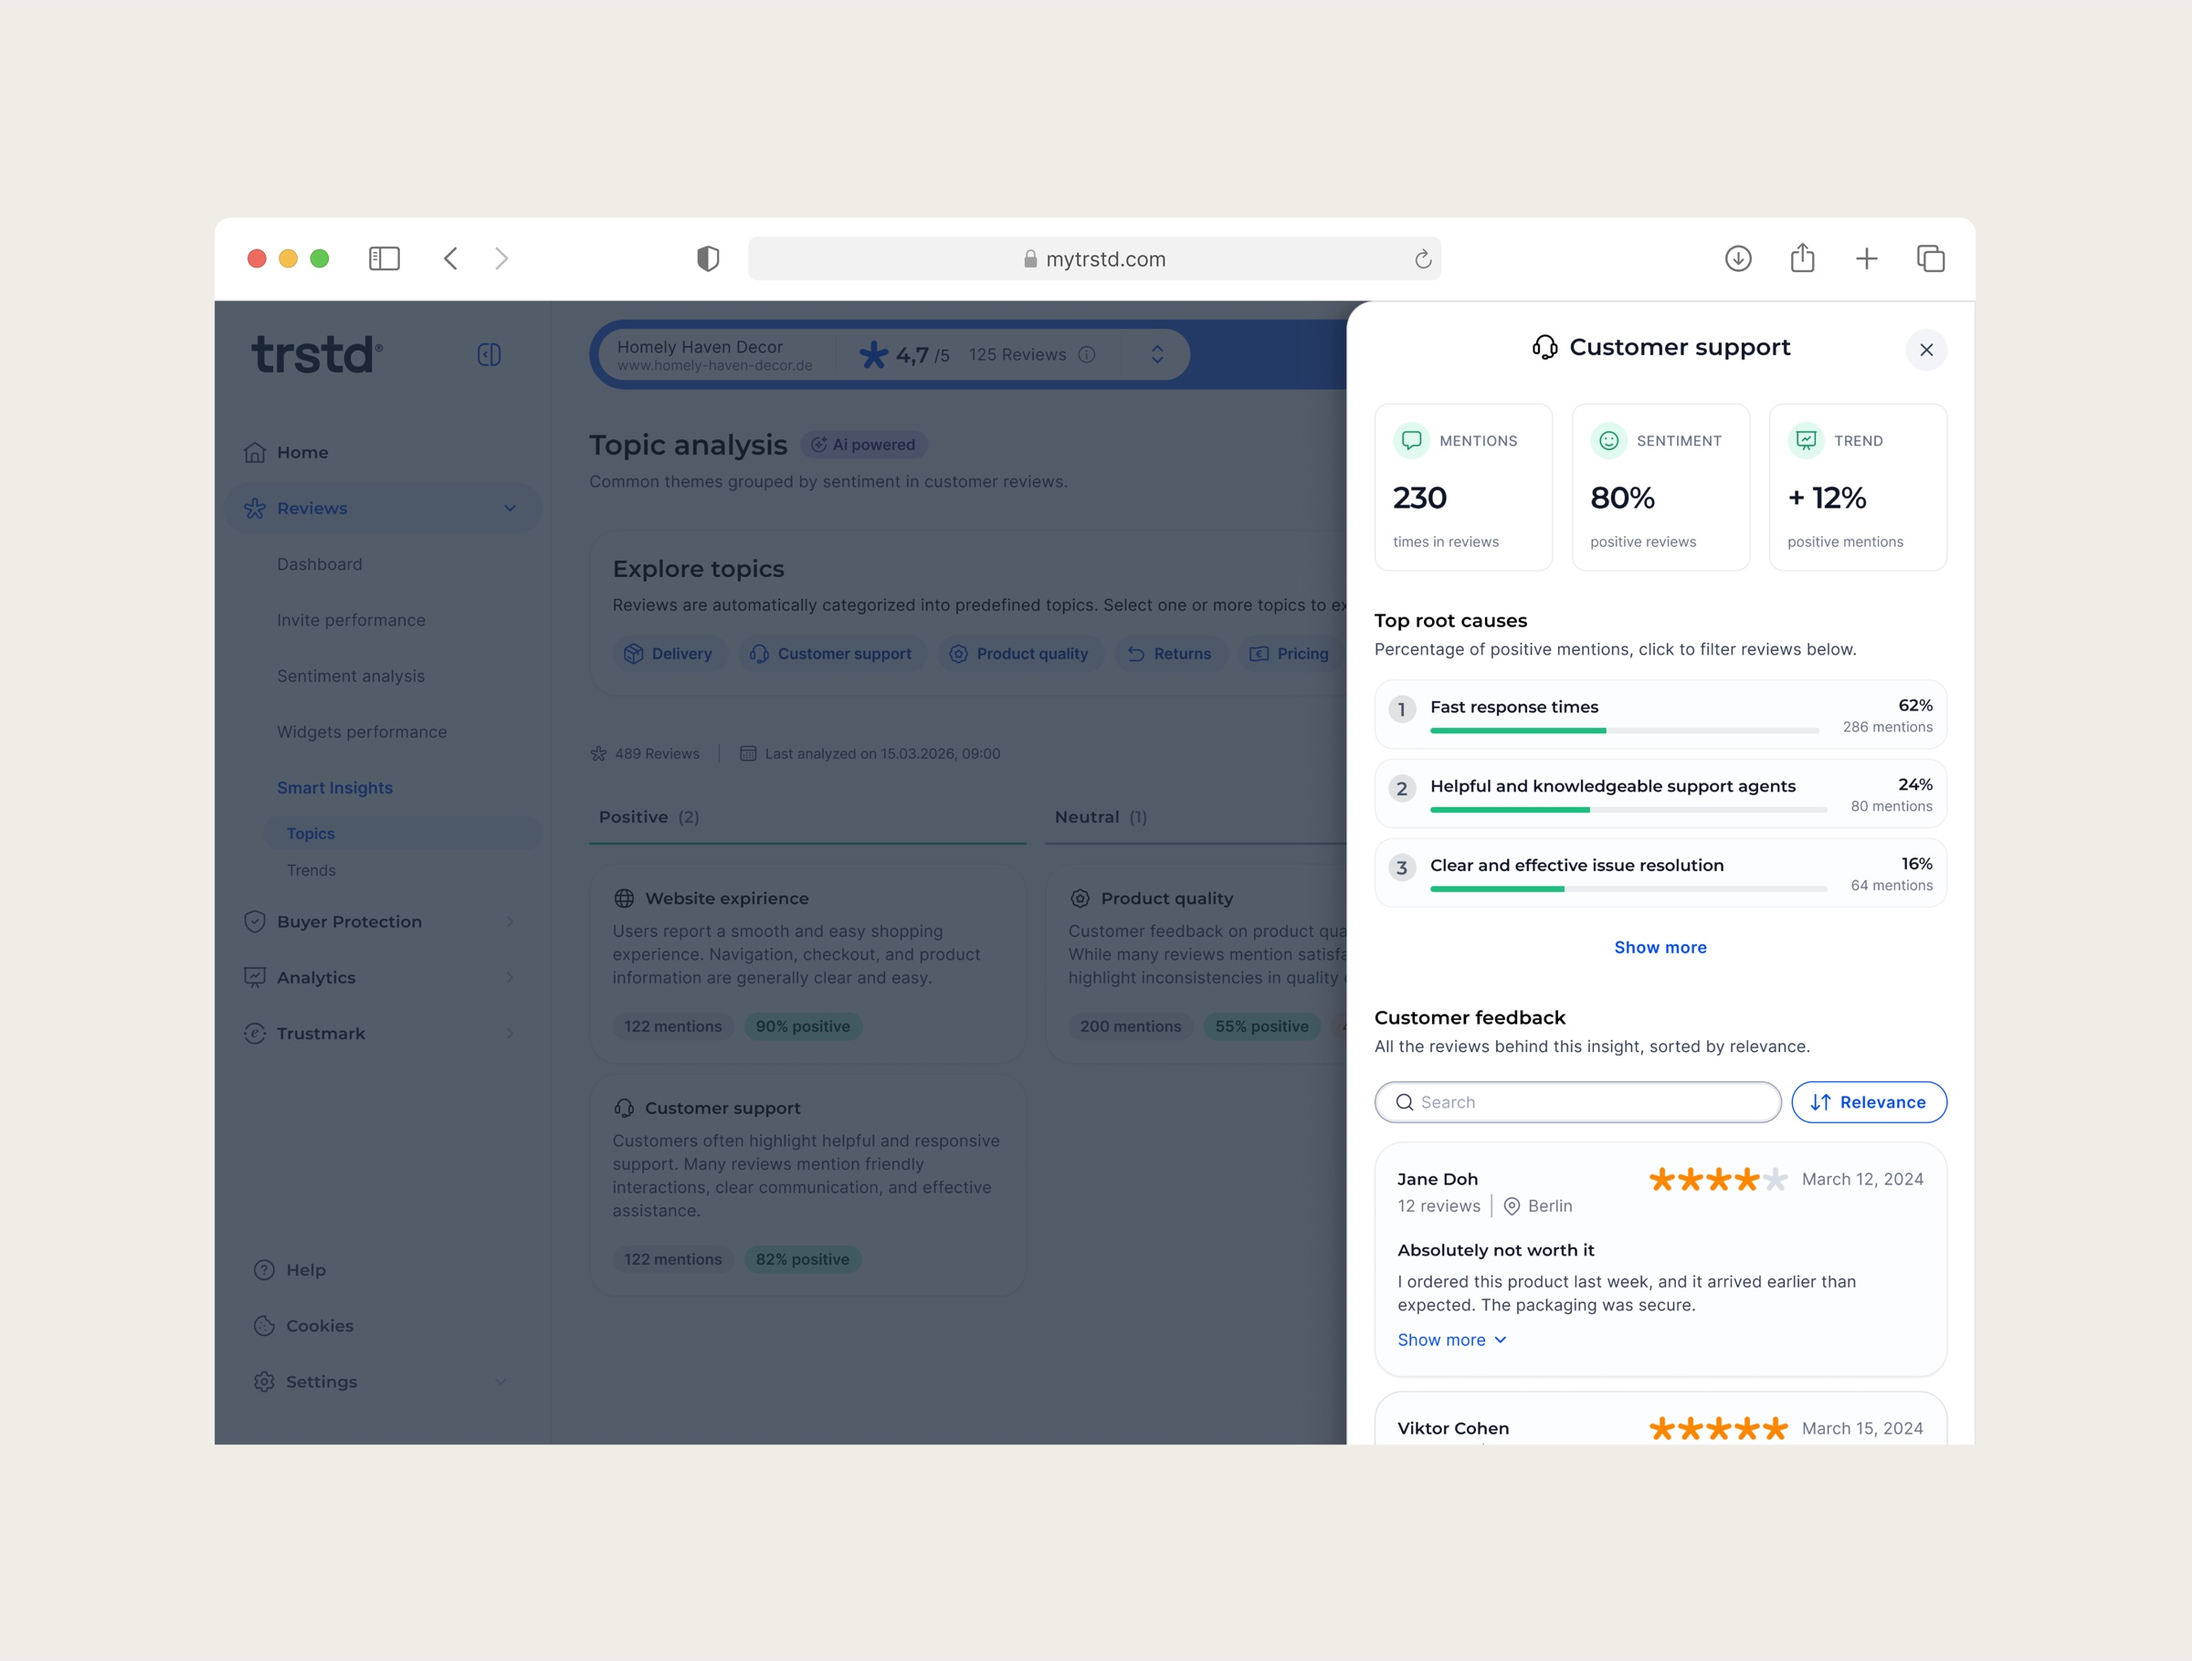
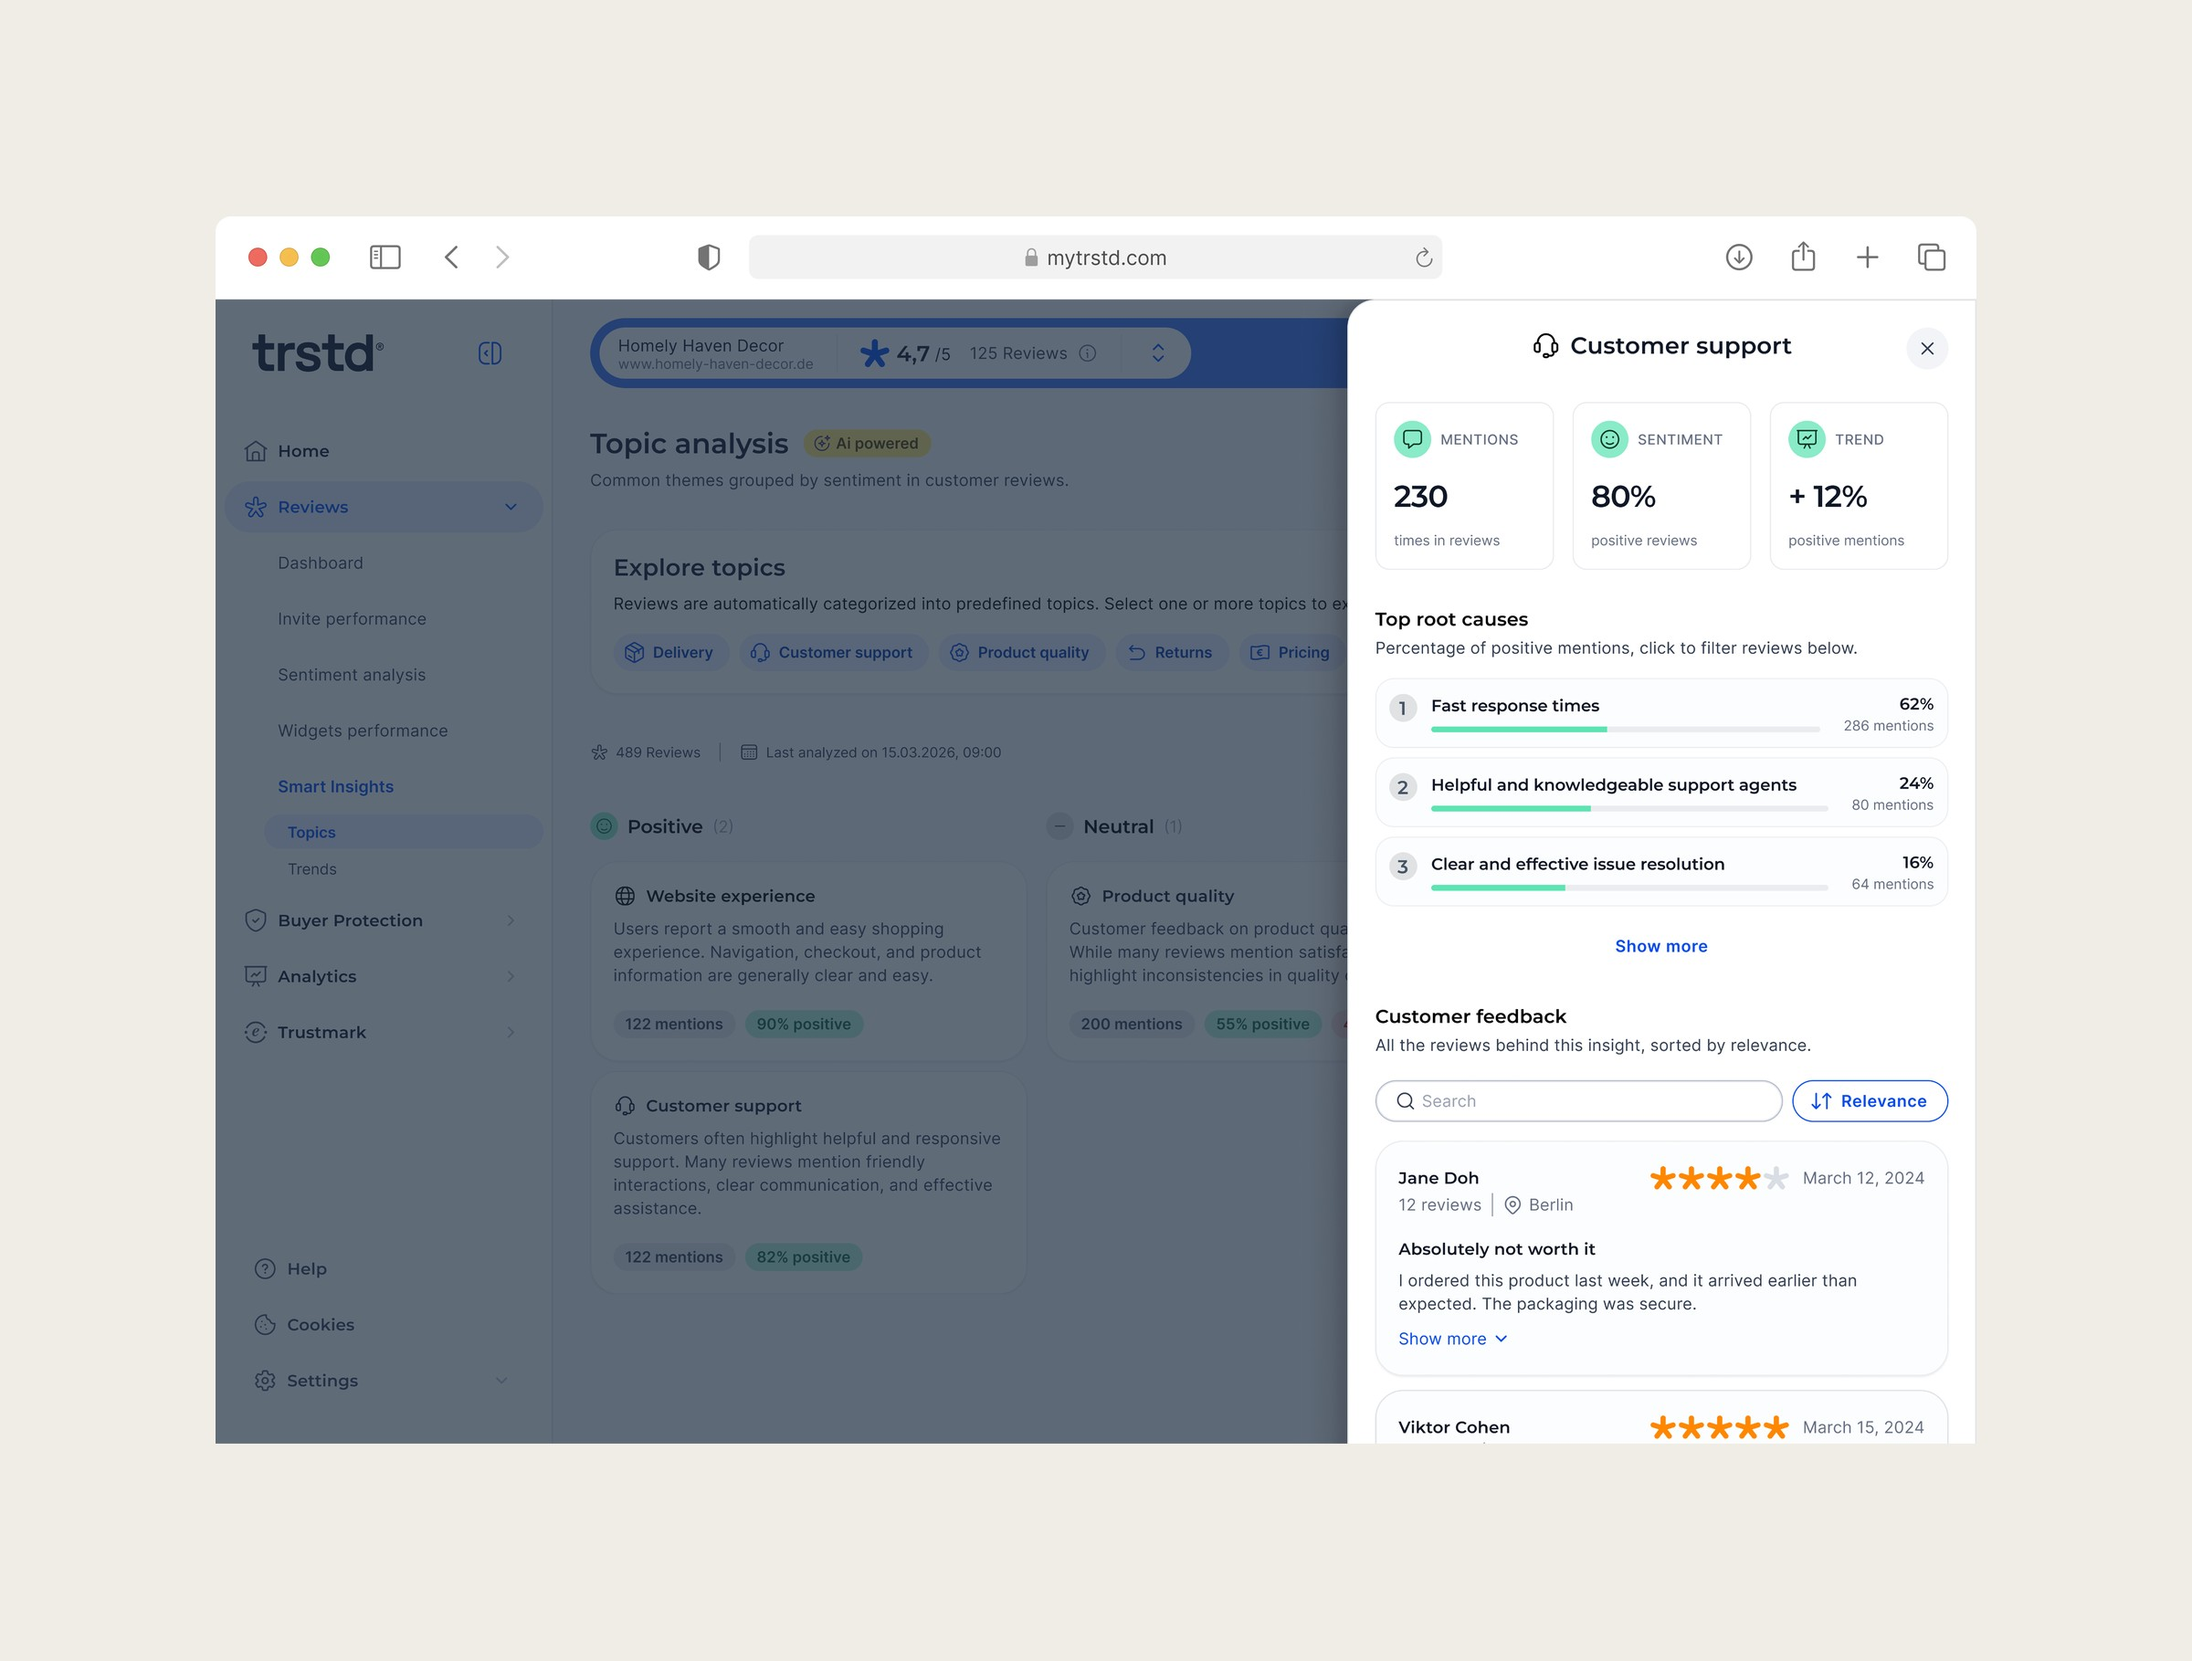
Smart Insights case: updated screens (sync)

diff --git a/case-smart-insights.html b/case-smart-insights.html
@@ -55,7 +55,7 @@
 
     <!-- 2. hero image -->
     <div class="case-media case-media-hero is-img">
-      <img src="assets/si-topics.jpg" alt="Smart Insights – topic analysis view in the trstd platform" loading="lazy">
+      <img src="assets/si-topics.jpg?v=2" alt="Smart Insights – topic analysis view in the trstd platform" loading="lazy">
     </div>
 
     <!-- 3. impact strip: beta signals -->
@@ -178,7 +178,10 @@
         <p>Once these were validated on the prototype, I moved to production design in Figma: component library, edge cases, empty states, error handling, and a visual language consistent with the trstd platform.</p>
       </div>
       <div class="case-media is-img">
-        <img src="assets/si-drilldown.jpg" alt="Shipped product: topic drill-down with root causes and the reviews behind each insight" loading="lazy">
+        <img src="assets/si-drilldown.jpg?v=2" alt="Shipped product: topic drill-down with KPIs, root causes and the reviews behind each insight" loading="lazy">
+      </div>
+      <div class="case-media is-img">
+        <img src="assets/si-feedback.jpg?v=1" alt="Customer feedback behind an insight: searchable, sortable review list per topic" loading="lazy">
       </div>
     </section>
 
